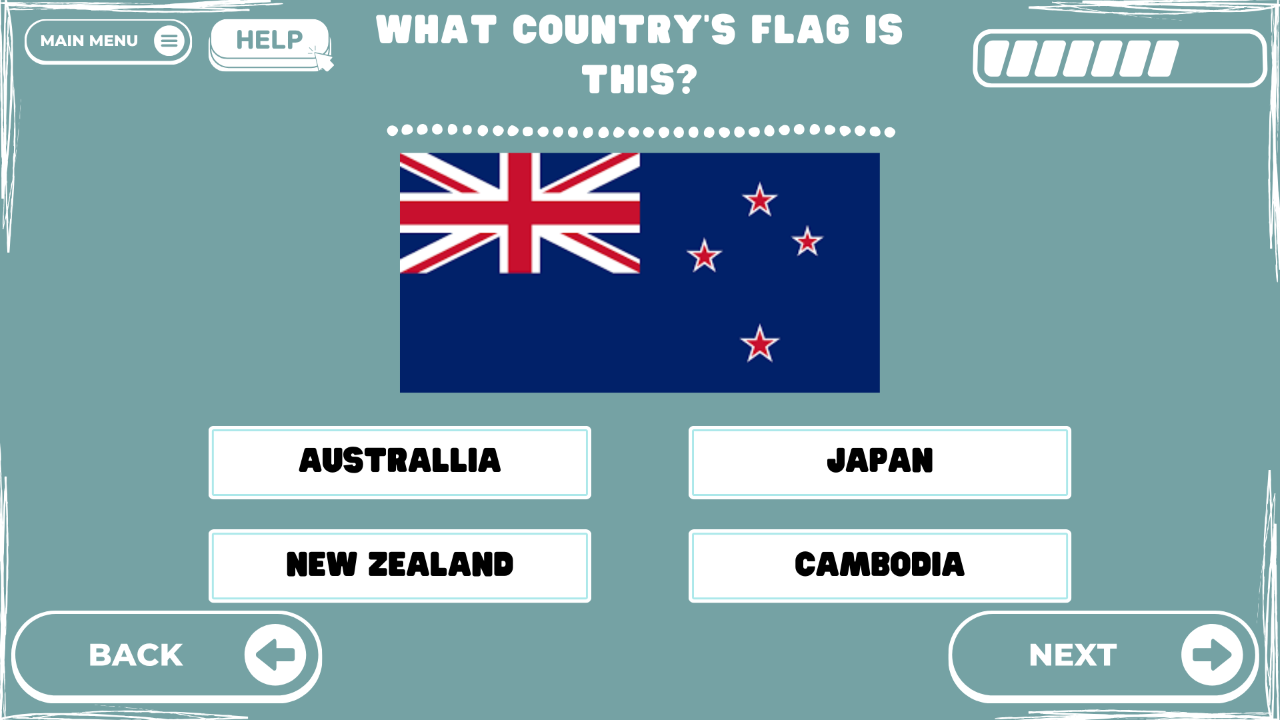
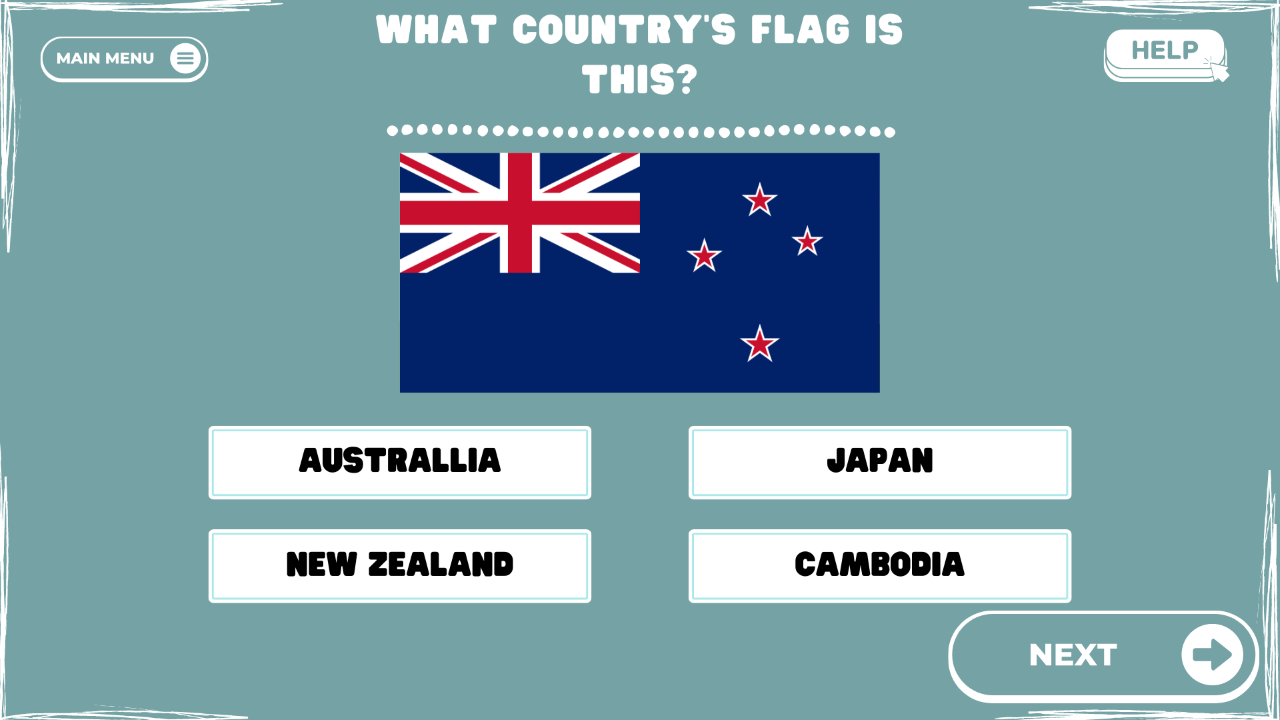
finished homepage and help button window

diff --git a/main.py b/main.py
@@ -1,71 +1,145 @@
+import os
 from tkinter import *
 
-root = Tk() 
+root = Tk()
 
-# Adjust size  
-root.geometry("1920x1080") 
+# Adjust size
+root.geometry("1280x720")
 
-# Add image file 
-bg = PhotoImage(file = "Homepage.png")
+# Add image file
+bg = PhotoImage(file="Homepage.png")
 
-# Create Canvas 
-canvas1 = Canvas( root, width = 1920, height = 1080) 
-canvas1.pack(fill = "both", expand = True) 
+# Create Canvas
+canvas1 = Canvas(root, width=1280, height=720)
+canvas1.pack(fill="both", expand=True)
 
-# Display image 
-canvas1.create_image( 0, 0, image = bg, anchor = "nw") 
+# Display image
+canvas1.create_image(0, 0, image=bg, anchor="nw")
 
-#the buttons
-button1 = Button(root, text = "Start")
-button2 = Button(root, text = "Help")
+# the buttons
+button1 = Button(root, text="Start")
+button2 = Button(root, text="Help")
 
-#show buttons
-button1_canvas = canvas1.create_window(100,10,
-                                      anchor = "nw",
-                                      window = button1)
-button2_canvas = canvas1.create_window(100,10,
-anchor = "nw",
-window = button2)
+# show buttons
+button1_canvas = canvas1.create_window(
+    100,
+    10,
+    anchor="nw",
+    window=button1,
+)
+button2_canvas = canvas1.create_window(
+    100,
+    10,
+    anchor="nw",
+    window=button2,
+)
 
-#where the button is placed
+# where the button is placed
 button1.place(x=430, y=310)
 button2.place(x=1030, y=596)
 
-#button size
+# button size
 button1.config(width=16, height=2)
 button2.config(width=8, height=2)
 
-#background colour of button
+# background colour of button
 button1.config(bg="white")
 button2.config(bg="white")
 
-#font and size of text in buttons in window 1 (homepage)
+# font and size of text in buttons in window 1 (homepage)
 button1.config(font=("Georgia", 30))
 button2.config(font=("Georgia", 30))
 
-#start button leading to new window
-def open_new_window():
+# Global variable to store question image
+question_bg = None
+
+#from start page to q1
+# start button that will lead to the ne window
+def open_question_window():
+    global question_bg  
+
     new_window = Toplevel(root)
     new_window.title("Question 1")
     new_window.geometry("1280x720")
 
-    label = Label(new_window, text = "Question 1")
-    label.pack()
-button1.config(command=open_new_window)
+    #  working diectory
+    current_directory = os.getcwd()
 
-#help button leading to new window
-def open_new_window():
+    # Add the image  name to the directory
+    question_image_path = os.path.join(current_directory, "Question1.png")
+    print("Question image path:", question_image_path)
+
+
+    # Load the image on the Q1 windoww
+    question_bg = PhotoImage(file=question_image_path)
+
+    # Create Canvas for question window
+    question_canvas = Canvas(new_window, width=1280, height=720)
+    question_canvas.pack(fill="both", expand=True)
+
+    # Display image for question window
+    question_canvas.create_image(0, 0, image=question_bg, anchor="nw")
+
+    label = Label(new_window, text="Question 1")
+    label.pack()
+
+    #button to return to homepage
+    return_button = Button(new_window, text="Return to Main Menu", command=new_window.destroy, font=("Georgia", 20), bg="white", width=16, height=2)
+    return_button.place(x=18, y=20)
+
+
+
+button1.config(command=open_question_window)
+
+
+# from start page to help page
+# start button that will lead to the ne window
+
+# Global variable to store help image
+help_bg = None
+
+def open_help_window():
+    global help_bg  
+
     new_window = Toplevel(root)
-    new_window.title("Help")
+    new_window.title("Help Page")
     new_window.geometry("1280x720")
 
-    label = Label(new_window, text = "Help")
+    #  working diectory
+    current_directory = os.getcwd()
+
+    # Add the image  name to the directory
+    help_image_path = os.path.join(current_directory, "help.png")
+    print("Help image path:", help_image_path)
+
+    # Check if the file exists
+    if not os.path.exists(help_image_path):
+        print("Error: Image file not found")
+    else:
+        print("Image file found!")
+
+    # Load the image on the Help windoww
+    help_bg = PhotoImage(file=help_image_path)
+
+    # Create Canvas for help window
+    help_canvas = Canvas(new_window, width=1280, height=720)
+    help_canvas.pack(fill="both", expand=True)
+
+    # Display image for help window
+    help_canvas.create_image(0, 0, image=help_bg, anchor="nw")
+
+    label = Label(new_window, text="Help")
     label.pack()
-button2.config(command=open_new_window)
 
-#window 2
+    #button to return to homepage
+    return_button = Button(new_window, text="Return to Main Menu", command=new_window.destroy, font=("Georgia", 25), bg="white", width=16, height=2)
+    return_button.place(x=18, y=20)
+
+button2.config(command=open_help_window)
 
 
-
-# Execute tkinter 
+# Execute tkinter
 root.mainloop()
+
+
+
